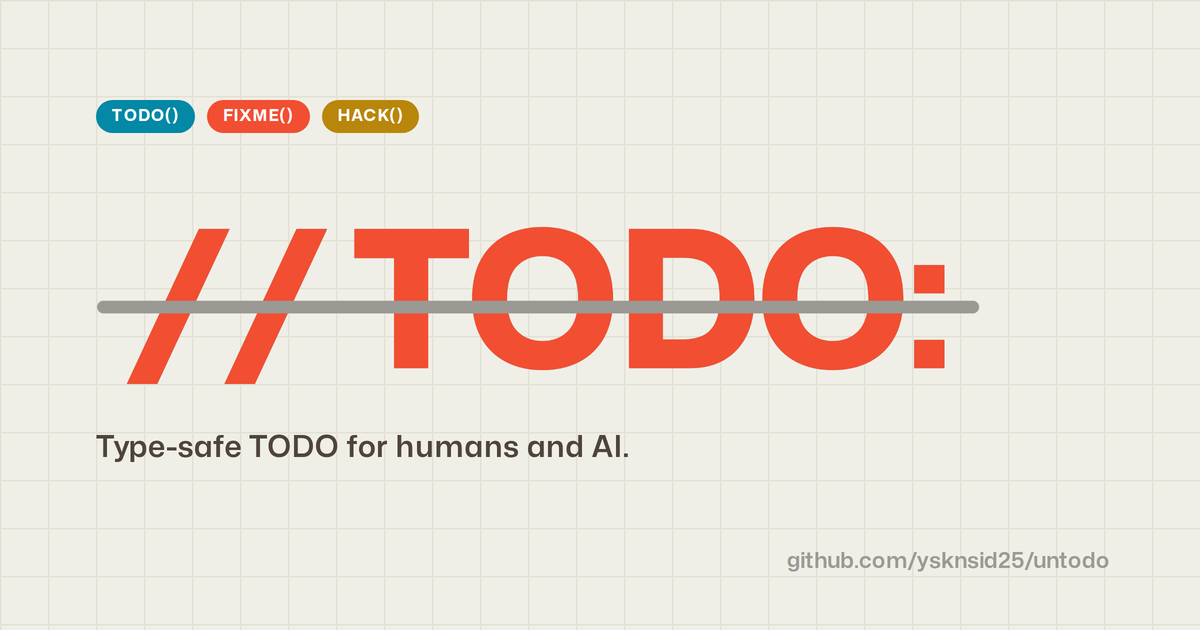
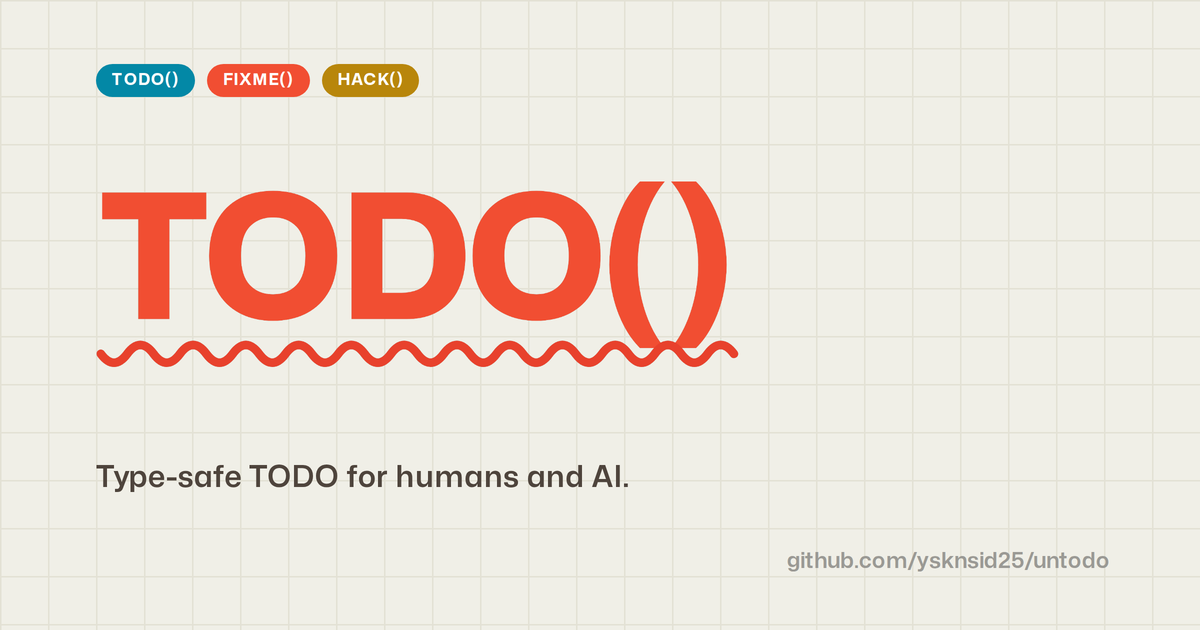
fix: image

Changed region(s): [[0.0617, 0.2714, 0.8325, 0.6333], [0.0617, 0.6937, 0.5242, 0.7841], [0.0617, 0.0905, 0.37, 0.2111]]

diff --git a/docs/index.html b/docs/index.html
@@ -81,6 +81,7 @@
         />
 
         <link rel="stylesheet" href="./assets/css/style.css" />
+        <meta name="Hatena::Bookmark" content="nocomment" />
     </head>
     <body>
         <!-- ============ header ============ -->

diff --git a/README-ja.md b/README-ja.md
@@ -1,7 +1,7 @@
 # untodo
 
 <p align="center">
-  <img src="docs/assets/img/logo-typing.gif" alt="untodo logo" />
+  <img src="docs/assets/img/logo-typing.svg" alt="untodo logo" />
 </p>
 
 [![JSR](https://jsr.io/badges/@ysknsid25/untodo)](https://jsr.io/@ysknsid25/untodo)

diff --git a/README.md b/README.md
@@ -1,7 +1,7 @@
 # untodo
 
 <p align="center">
-  <img src="docs/assets/img/logo-typing.gif" alt="untodo logo" />
+  <img src="docs/assets/img/logo-typing.svg" alt="untodo logo" />
 </p>
 
 [![JSR](https://jsr.io/badges/@ysknsid25/untodo)](https://jsr.io/@ysknsid25/untodo)
